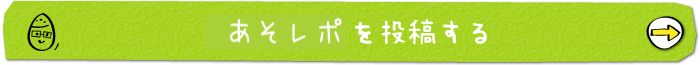
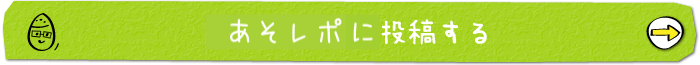
changed aso_repo_post_btn

Changed region(s): [[0.48, 0.2769, 0.54, 0.7385]]

diff --git a/resources/views/objects/aso_repo_index.blade.php b/resources/views/objects/aso_repo_index.blade.php
@@ -54,5 +54,5 @@
 @else
     <p>まだ「あそレポ」は投稿されていないようです。</p>
 @endif
-<p>「{{$asobikata->name}}」で遊んだことがありますか？</p>
-<a style="margin-bottom: 30px;" href="/aso-repo/create?aid={{$asobikata->id}}"><img src="/img/detail/post_btn.png" alt="あそレポを投稿する" style="width: 100%;"></a>
+<p>「{{$asobikata->name}}」の感想を「あそレポ」に投稿しよう！</p>
+<a style="margin-bottom: 30px;" href="/aso-repo/create?aid={{$asobikata->id}}"><img src="/img/form/post3_btn.png" alt="あそレポに投稿する" style="width: 100%;"></a>
